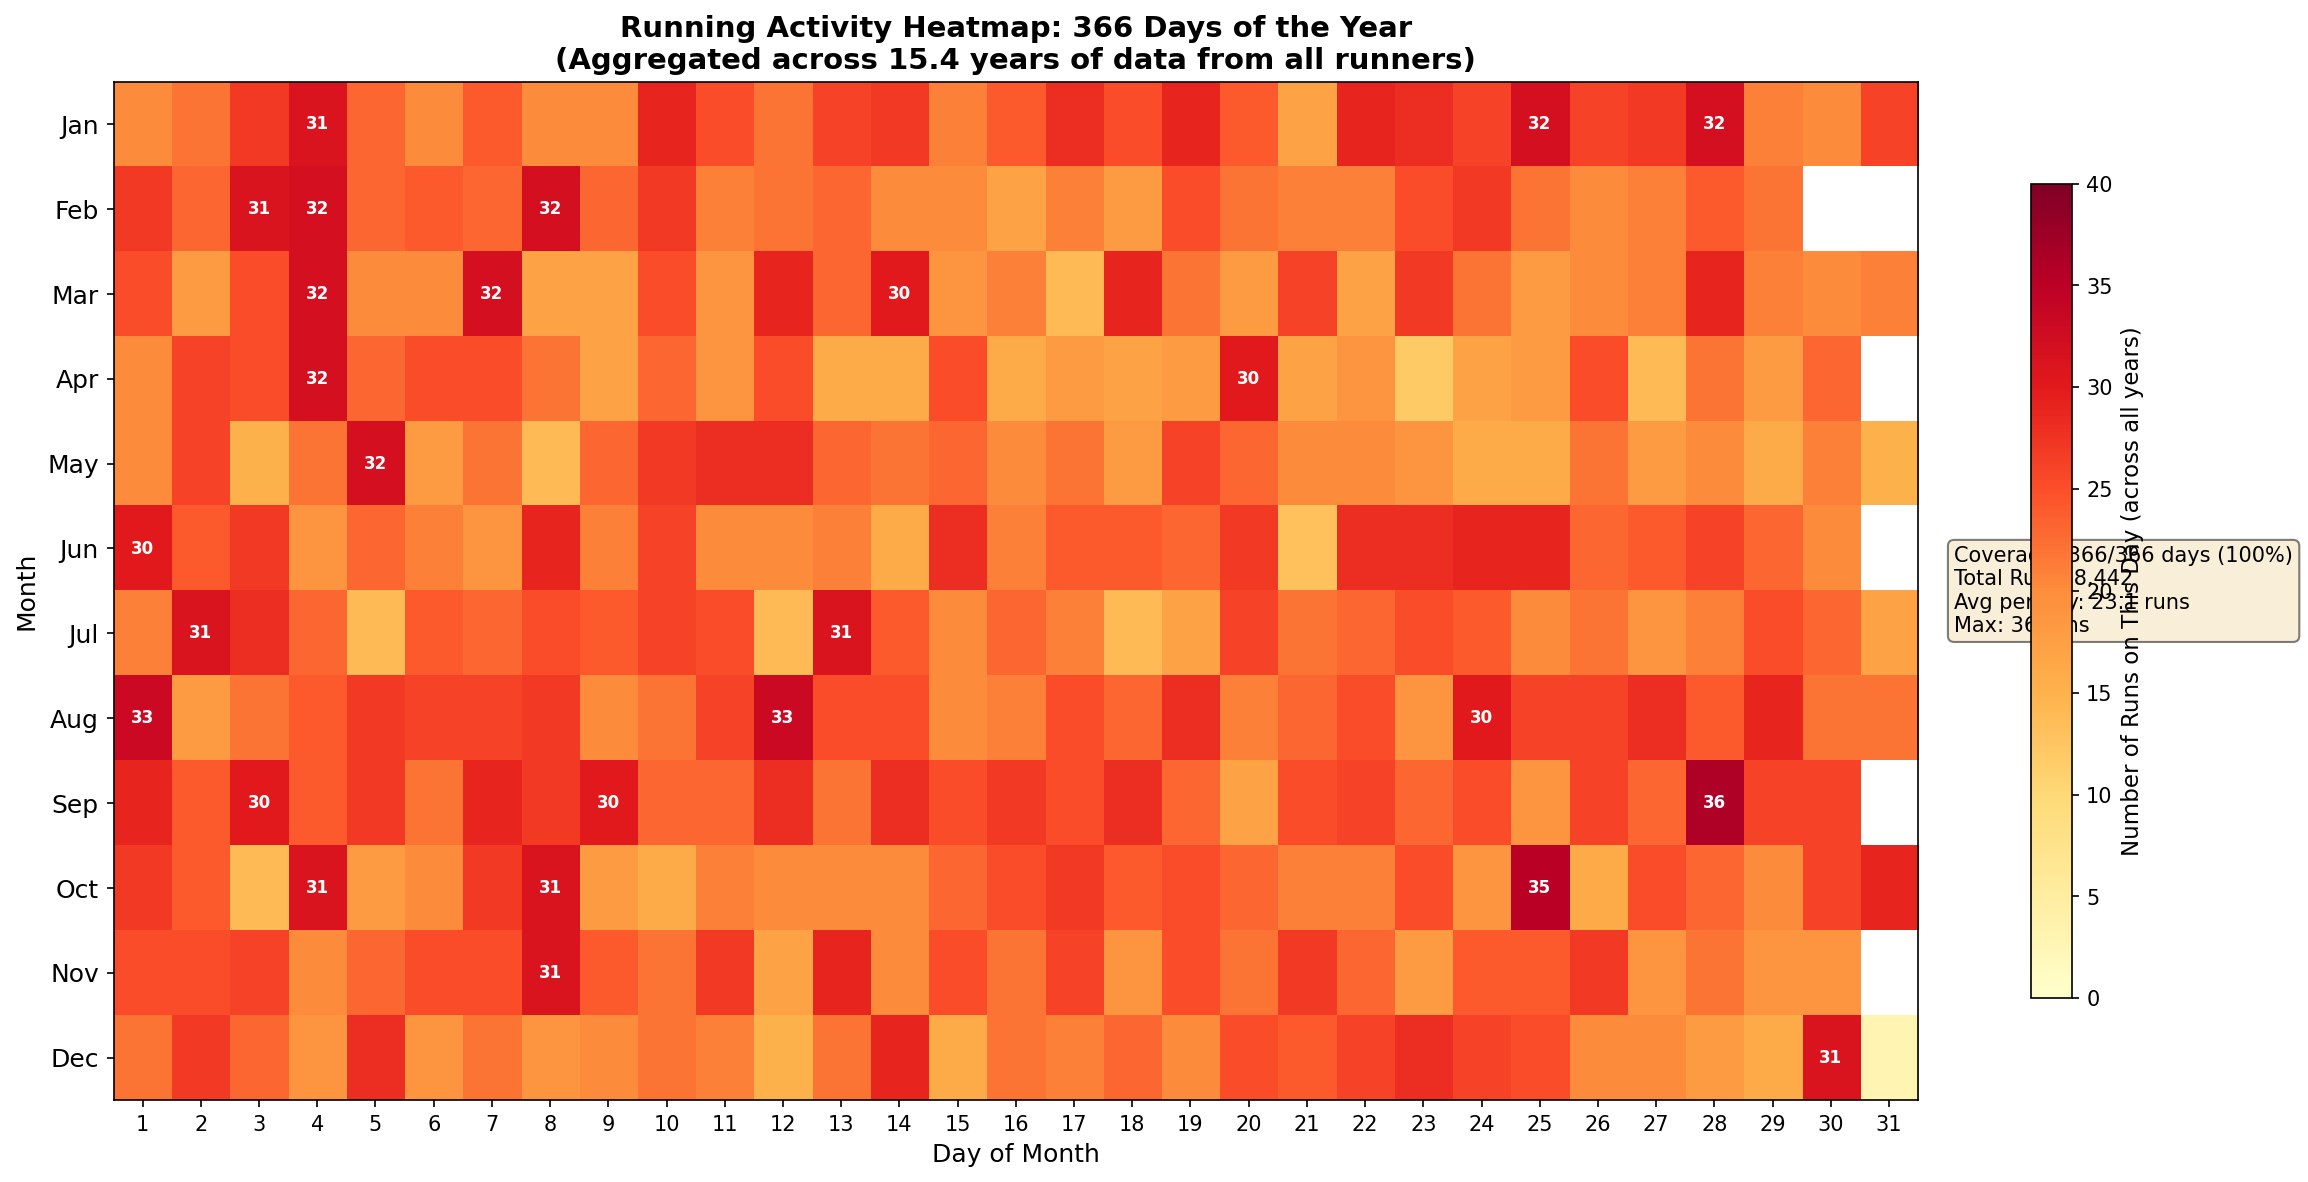
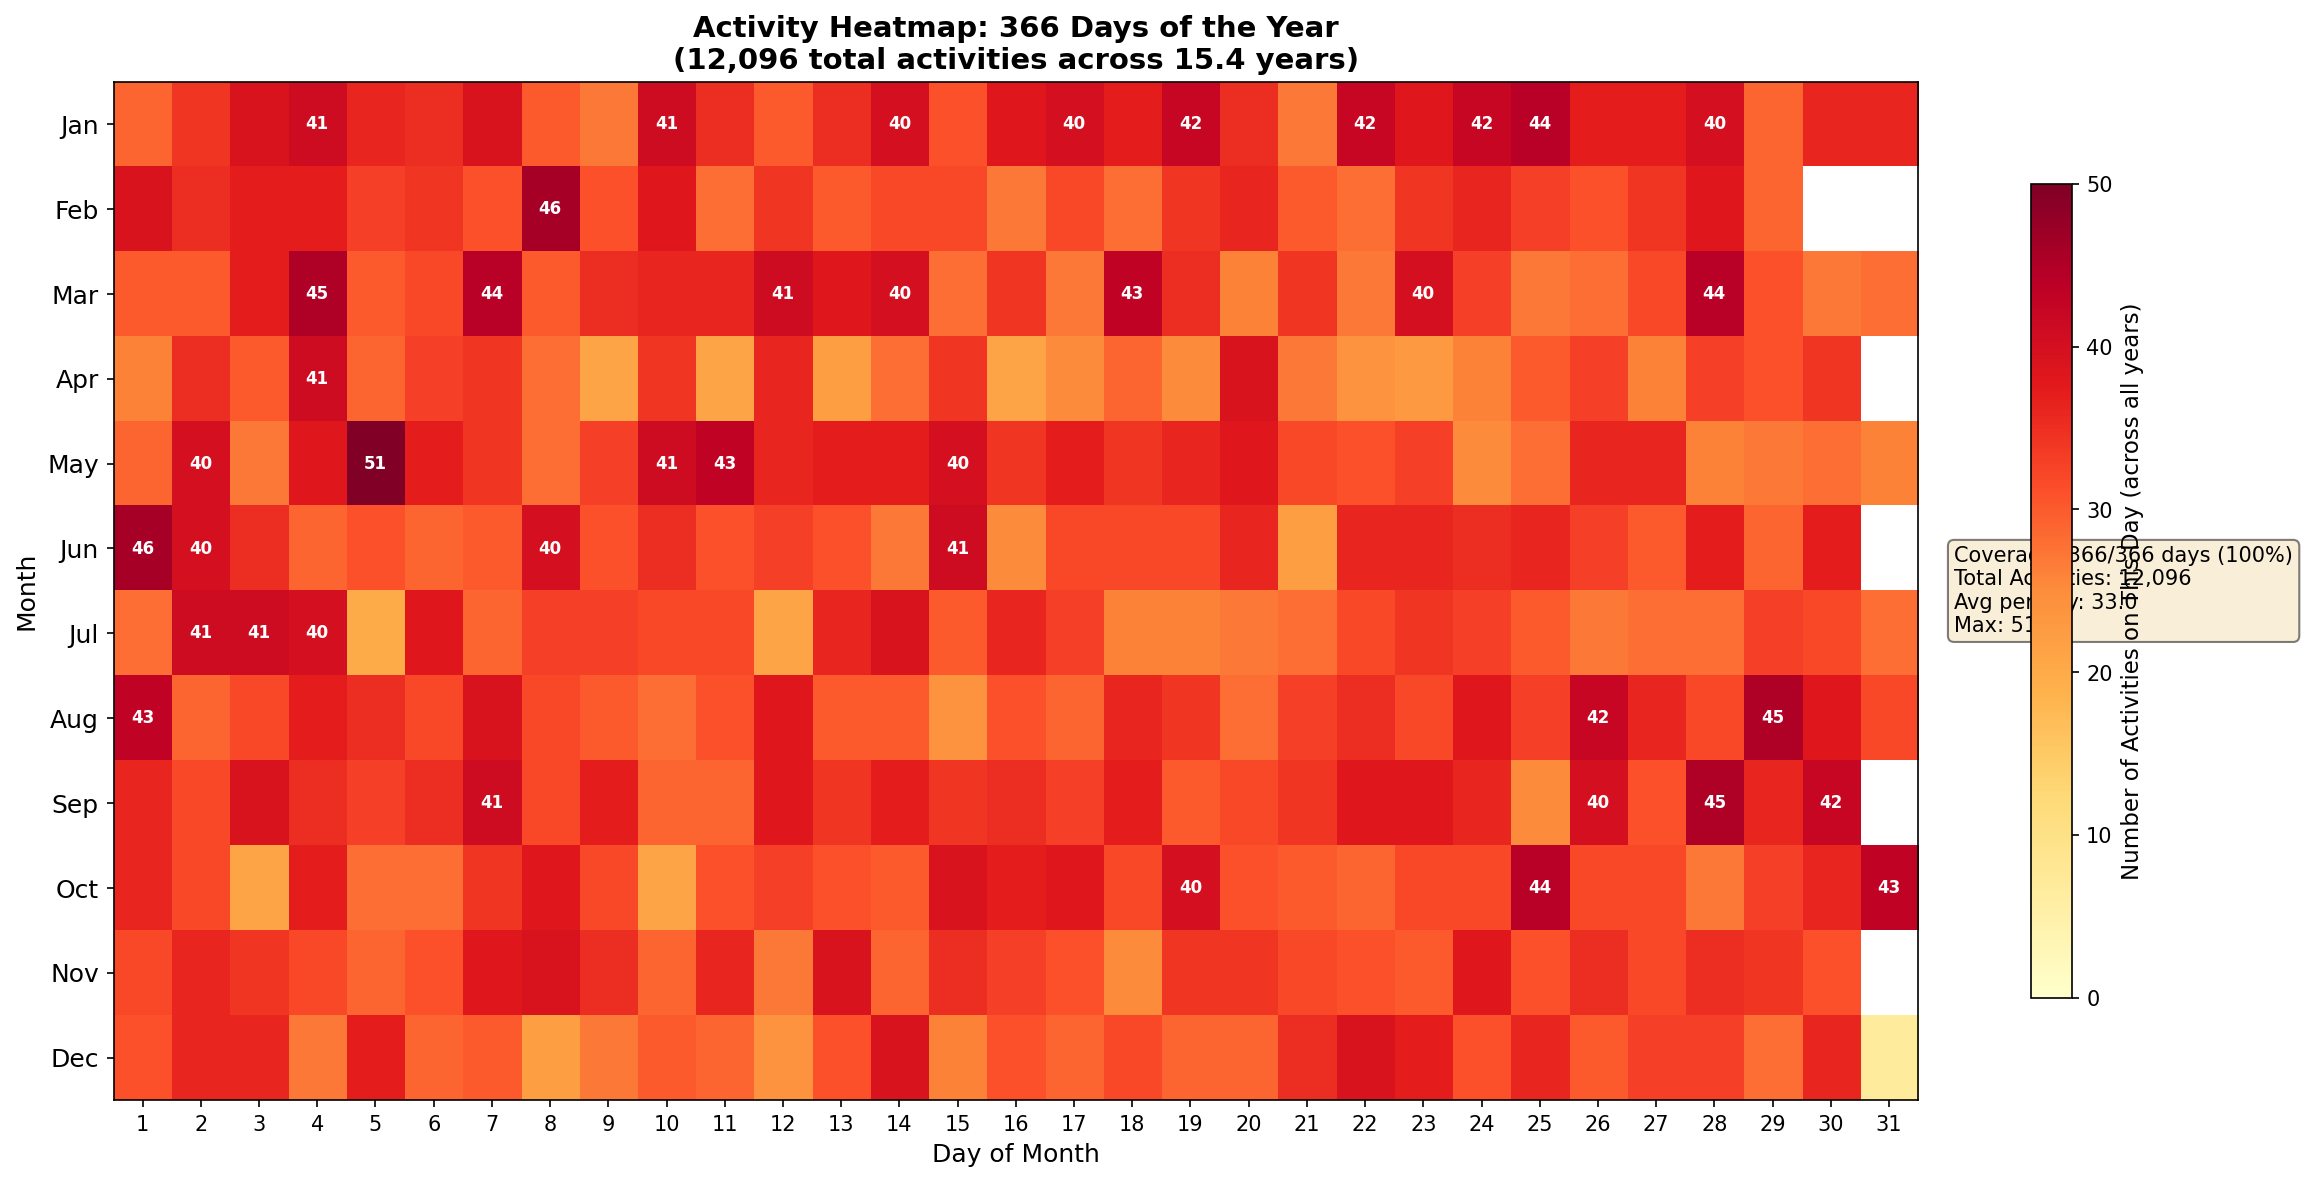
Update stats to include ALL activities (12,096 total, 11,006 hours)

diff --git a/PROJECT_REPORT.md b/PROJECT_REPORT.md
@@ -25,13 +25,25 @@ This project predicts marathon finish times based on training data from Strava, 
 ### Dataset Scale
 | Metric | Value |
 |--------|-------|
-| Total Running Activities | 8,442 |
-| Total Miles Tracked | 62,335 miles |
-| Total Running Time | 8,702 hours |
-| Years of Training Data | 15.4 years (2010-2026) |
+| **Total Activities** | **12,096** |
+| **Total Distance** | **76,942 miles** |
+| **Total Time** | **11,006 hours** |
+| Years of Data | 15.4 years (2010-2026) |
 | Calendar Days Covered | 366/366 (100%) |
+| Running Activities (used for model) | 8,442 |
 | Marathon Races (Training Set) | 43 |
 | Marathon Races (Holdout Test) | 5 |
+
+### Activity Type Breakdown
+| Activity Type | Count | Percentage |
+|--------------|-------|------------|
+| Run | 8,442 | 69.8% |
+| Walk | 1,098 | 9.1% |
+| Ride | 584 | 4.8% |
+| Weight Training | 552 | 4.6% |
+| Workout | 371 | 3.1% |
+| Hike | 263 | 2.2% |
+| Other (Swim, Yoga, etc.) | 786 | 6.4% |
 
 The dataset consists of real-world running data exported from Strava, including detailed activity logs with distance, duration, pace, heart rate, and elevation data. This represents a substantial corpus of endurance training data spanning over 15 years, with **complete calendar coverage** - every day of the year has at least one recorded activity across the dataset.
 
